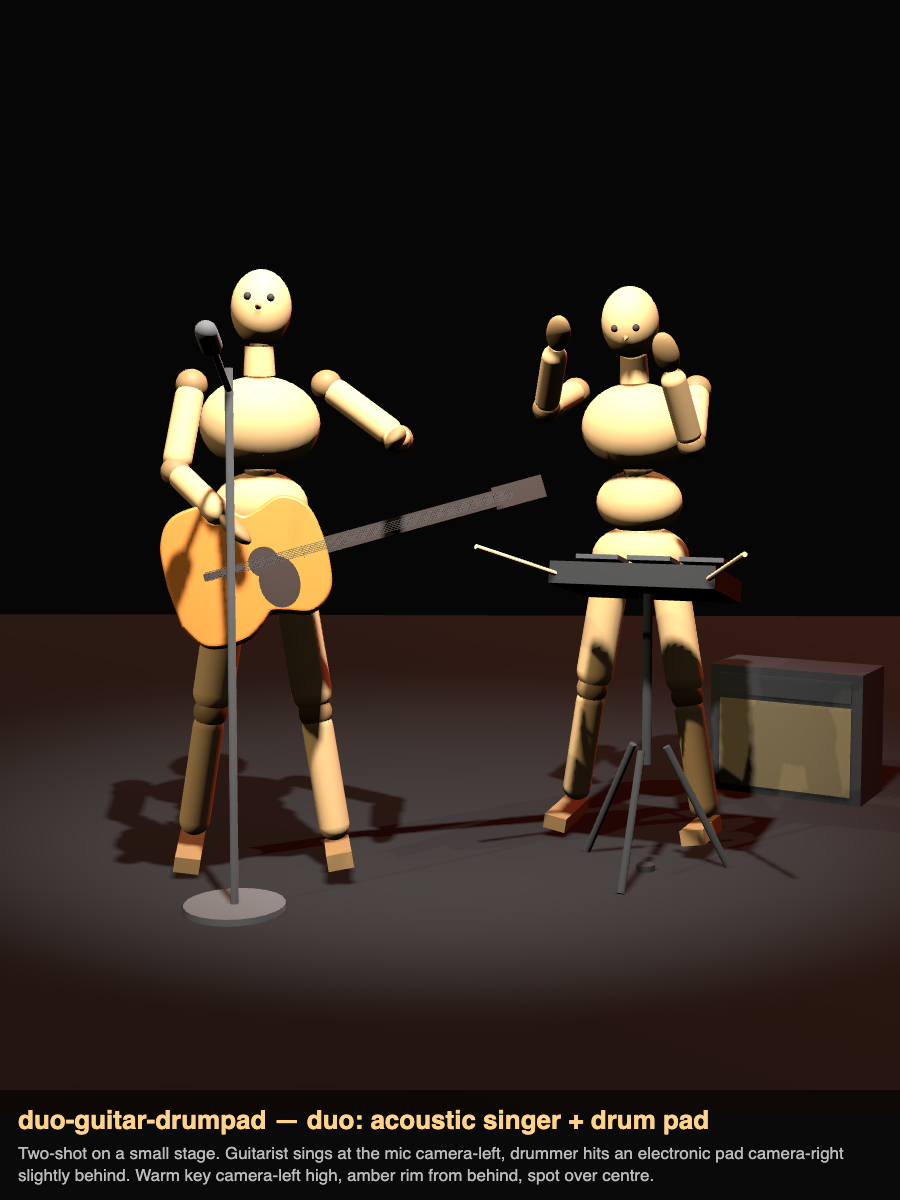
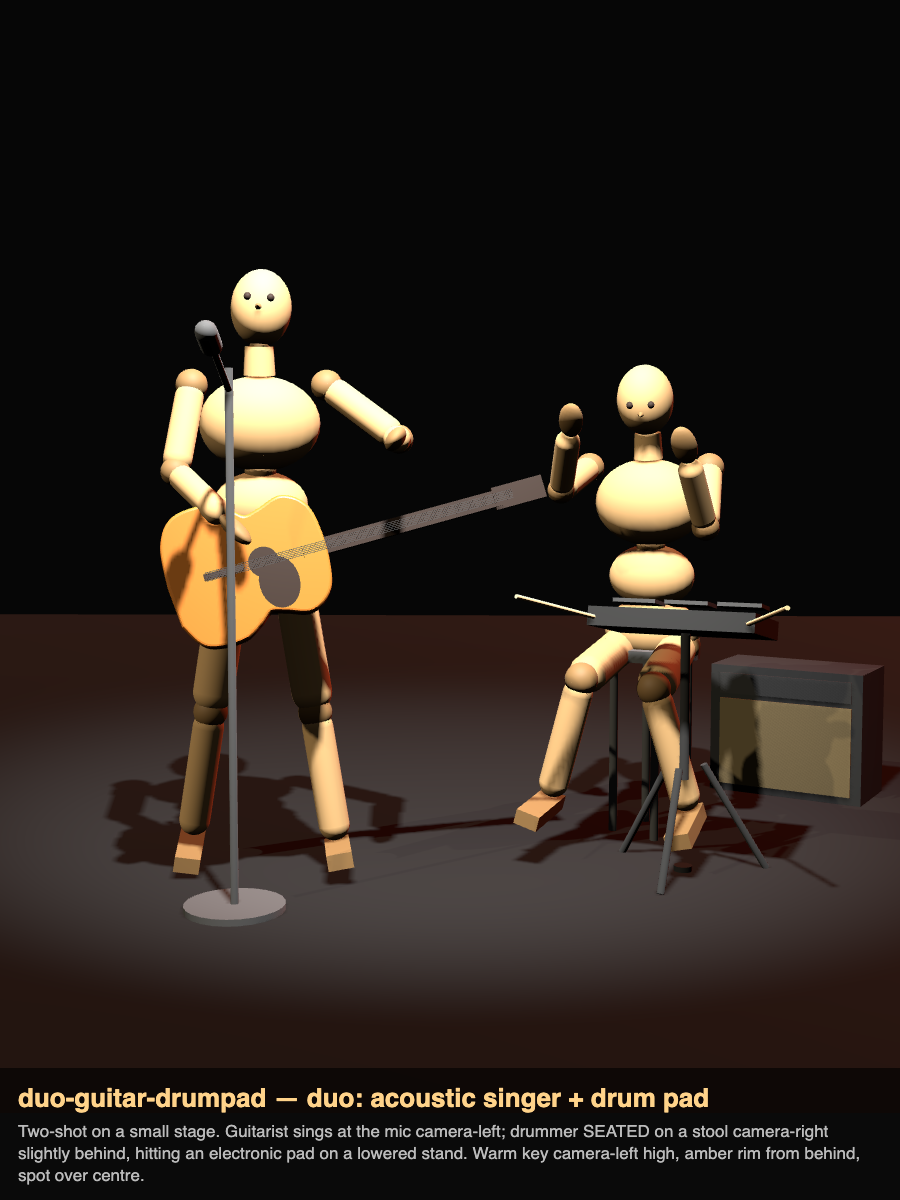
feat(mannequin-poser): duo scene with seated drummer, lowered pad

Changed region(s): [[0.56, 0.2158, 0.9022, 0.74], [0.0, 0.8942, 0.9644, 0.9867], [0.5289, 0.4317, 0.56, 0.4625]]

diff --git a/tools/mannequin-pose/poser.html b/tools/mannequin-pose/poser.html
@@ -190,9 +190,9 @@ const PRESETS = {
   'Duo · guitar + drum pad': { bg:0x060606, floor:0x0d0d0d,
     cam:{pos:[0.25,1.35,4.7], target:[0.15,1.0,0], fov:42},
     light:{keyPos:[-3,3.2,2.5], color:0xfff6d6, intensity:1.4, ambient:0.14, rimPos:[2.5,2.6,-2.8], rimColor:0xff5c3a, rimIntensity:1.8},
-    objects:[ G([-0.42,1.0,0.38],[-10,8,15]), {id:'mic', name:'ไมค์', kind:'mic', pos:[-0.47,0,0.55], rot:[0,0,0], scale:1}, {id:'drumpad', name:'กลองแพด', kind:'drumpad', pos:[0.78,0,0.12], rot:[0,-22,0], scale:1}, {id:'amp-1', name:'แอมป์', kind:'amp', pos:[1.5,0,-1.0], rot:[0,-30,0], scale:1}, {id:'spot', name:'สปอตไลท์', kind:'spot', pos:[0.2,4.2,2.2], target:[0.15,1.2,0], intensity:70} ],
+    objects:[ G([-0.42,1.0,0.38],[-10,8,15]), {id:'mic', name:'ไมค์', kind:'mic', pos:[-0.47,0,0.55], rot:[0,0,0], scale:1}, {id:'drumpad', name:'กลองแพด', kind:'drumpad', pos:[0.9,0,0.12], rot:[0,-22,0], scale:[1,0.86,1]}, {id:'stool-2', name:'สตูลมือกลอง', kind:'stool', pos:[0.85,0,-0.37], rot:[0,0,0], scale:1}, {id:'amp-1', name:'แอมป์', kind:'amp', pos:[1.5,0,-1.0], rot:[0,-30,0], scale:1}, {id:'spot', name:'สปอตไลท์', kind:'spot', pos:[0.2,4.2,2.2], target:[0.15,1.2,0], intensity:70} ],
     figures:[ {id:'fig-1', name:'มือกีตาร์ (ร้อง)', pose:{ rootPos:[-0.45,0.98,0.1], bodyYaw:8, spineLean:5, headPitch:-8, headYaw:-4, headTilt:-3, armL:{fwd:26,out:54,bend:72}, armR:{fwd:30,out:10,bend:50,twist:55}, legL:{out:9,fwd:3}, legR:{out:9,fwd:-3,bend:4} }},
-              {id:'fig-2', name:'มือกลองแพด', pose:{ rootPos:[0.8,0.98,-0.3], bodyYaw:-22, spineLean:10, headPitch:18, headYaw:6, armL:{fwd:62,out:18,bend:95,twist:10}, armR:{fwd:88,out:14,bend:60,twist:10}, legL:{out:10,fwd:2}, legR:{out:10,fwd:-2,bend:3} }} ] },
+              {id:'fig-2', name:'มือกลองแพด (นั่ง)', pose:{ rootPos:[0.85,0.72,-0.35], bodyYaw:-22, spineLean:8, headPitch:16, headYaw:6, armL:{fwd:58,out:16,bend:92,twist:10}, armR:{fwd:84,out:12,bend:62,twist:10}, legL:{fwd:78,bend:88,out:14}, legR:{fwd:80,bend:84,out:16} }} ] },
 };
 let S = clone(DEFAULT);
 function merge(base, over){ const o = clone(base);

diff --git a/skills/mannequin-poser/references/scene-schema.md b/skills/mannequin-poser/references/scene-schema.md
@@ -30,7 +30,7 @@ Same format for `poses.js` entries, `render-json.sh`, the artifact inbox/outbox 
 - Playing guitar in front: fretting armL out 50–60 fwd 25–35 bend 70; strumming armR fwd 28–34 out 8–12 bend 48–55 twist 55.
 - Guitar slung on back: armL fwd 38 bend 105 out 6 (hand on the strap).
 - Singing at a mic: headPitch −6…−10, spineLean 5; mic stand at `[figX, 0, figZ+0.45]`.
-- Drum pad player: spineLean 10, headPitch 18, armL fwd 62 out 18 bend 95, armR fwd 88 out 14 bend 60 (one stick raised); pad at `[figX, 0, figZ+0.42]` rotated to face them.
+- Drum pad player, SEATED on a stool (rootPos y 0.72, legs fwd≈80 bend≈86): spineLean 8, headPitch 16, armL fwd 58 out 16 bend 92, armR fwd 84 out 12 bend 62 (one stick raised); stool at `[figX,0,figZ-0.02]`, pad at `[figX+0.05,0,figZ+0.47]` scale `[1,0.86,1]`, rotated to face them. Standing variant: pad scale 1, spineLean 10, headPitch 18.
 - Two characters: x ≈ −0.45 and x ≈ 0.8 (second slightly behind, z −0.3), camera two-shot `pos [0.25,1.35,4.7] target [0.15,1.0,0] fov 42`. Objects that belong to a figure are positioned relative to that figure's rootPos.
 - Example: `tools/mannequin-pose/scenes/duo-guitar-drumpad.json`.
 
